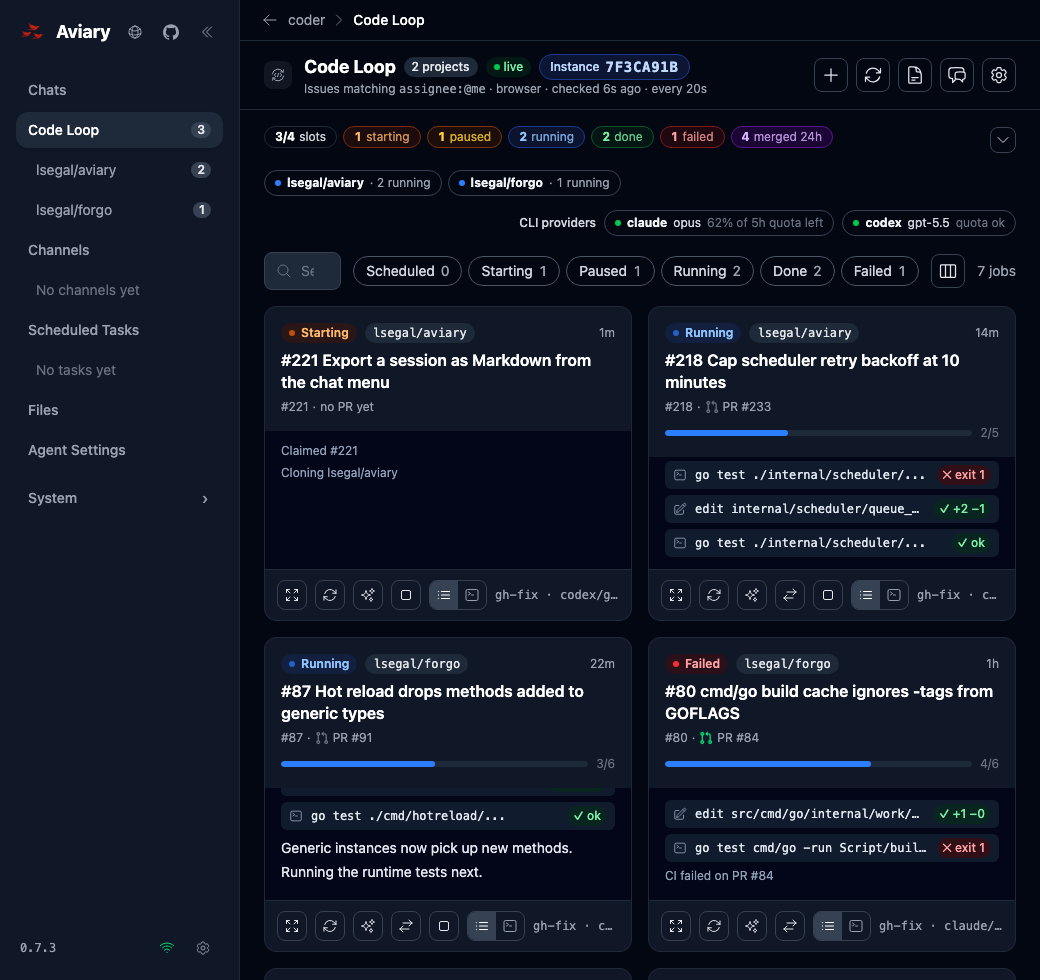
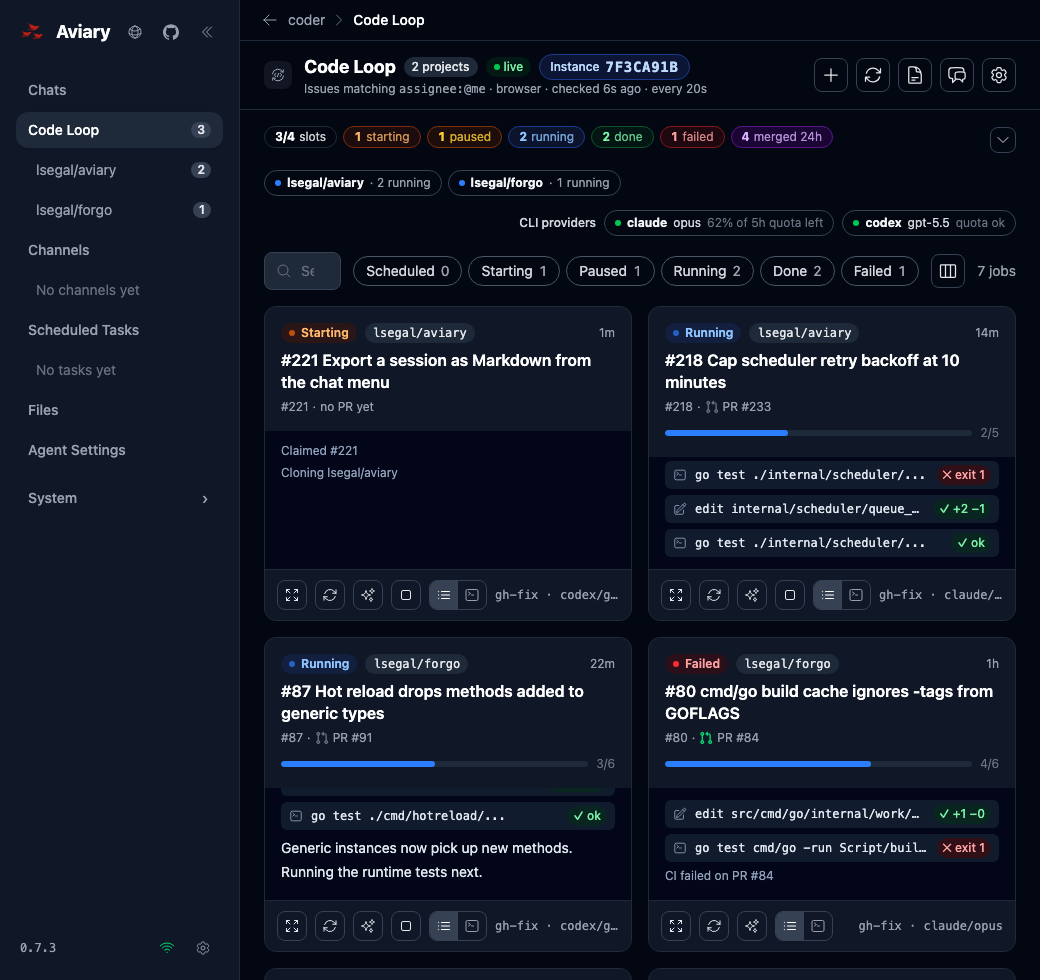
Remove the per-card safe-merge queue button from Code Loop cards
Closes #1163

Changed region(s): [[0.7385, 0.9184, 0.9538, 0.9796], [0.7692, 0.5816, 0.9538, 0.6429], [0.4, 0.9184, 0.5846, 0.9796]]

diff --git a/web/e2e/codeloop-queue.spec.ts b/web/e2e/codeloop-queue.spec.ts
@@ -198,9 +198,7 @@ async function setup(page: Page, { noMerge = false } = {}) {
 		// The board reads its schedules' entries apart from its jobs.
 		project_job_list: (args?: Record<string, unknown>) => {
 			const kinds = args?.kinds as string[] | undefined;
-			const jobs = kinds?.includes("schedule")
-				? []
-				: JOBS.filter((j) => !kinds || kinds.includes(j.kind));
+			const jobs = kinds?.includes("schedule") ? [] : JOBS;
 			return { jobs, total: jobs.length, offset: 0, limit: 500 };
 		},
 		task_list: [SCHEDULE],
